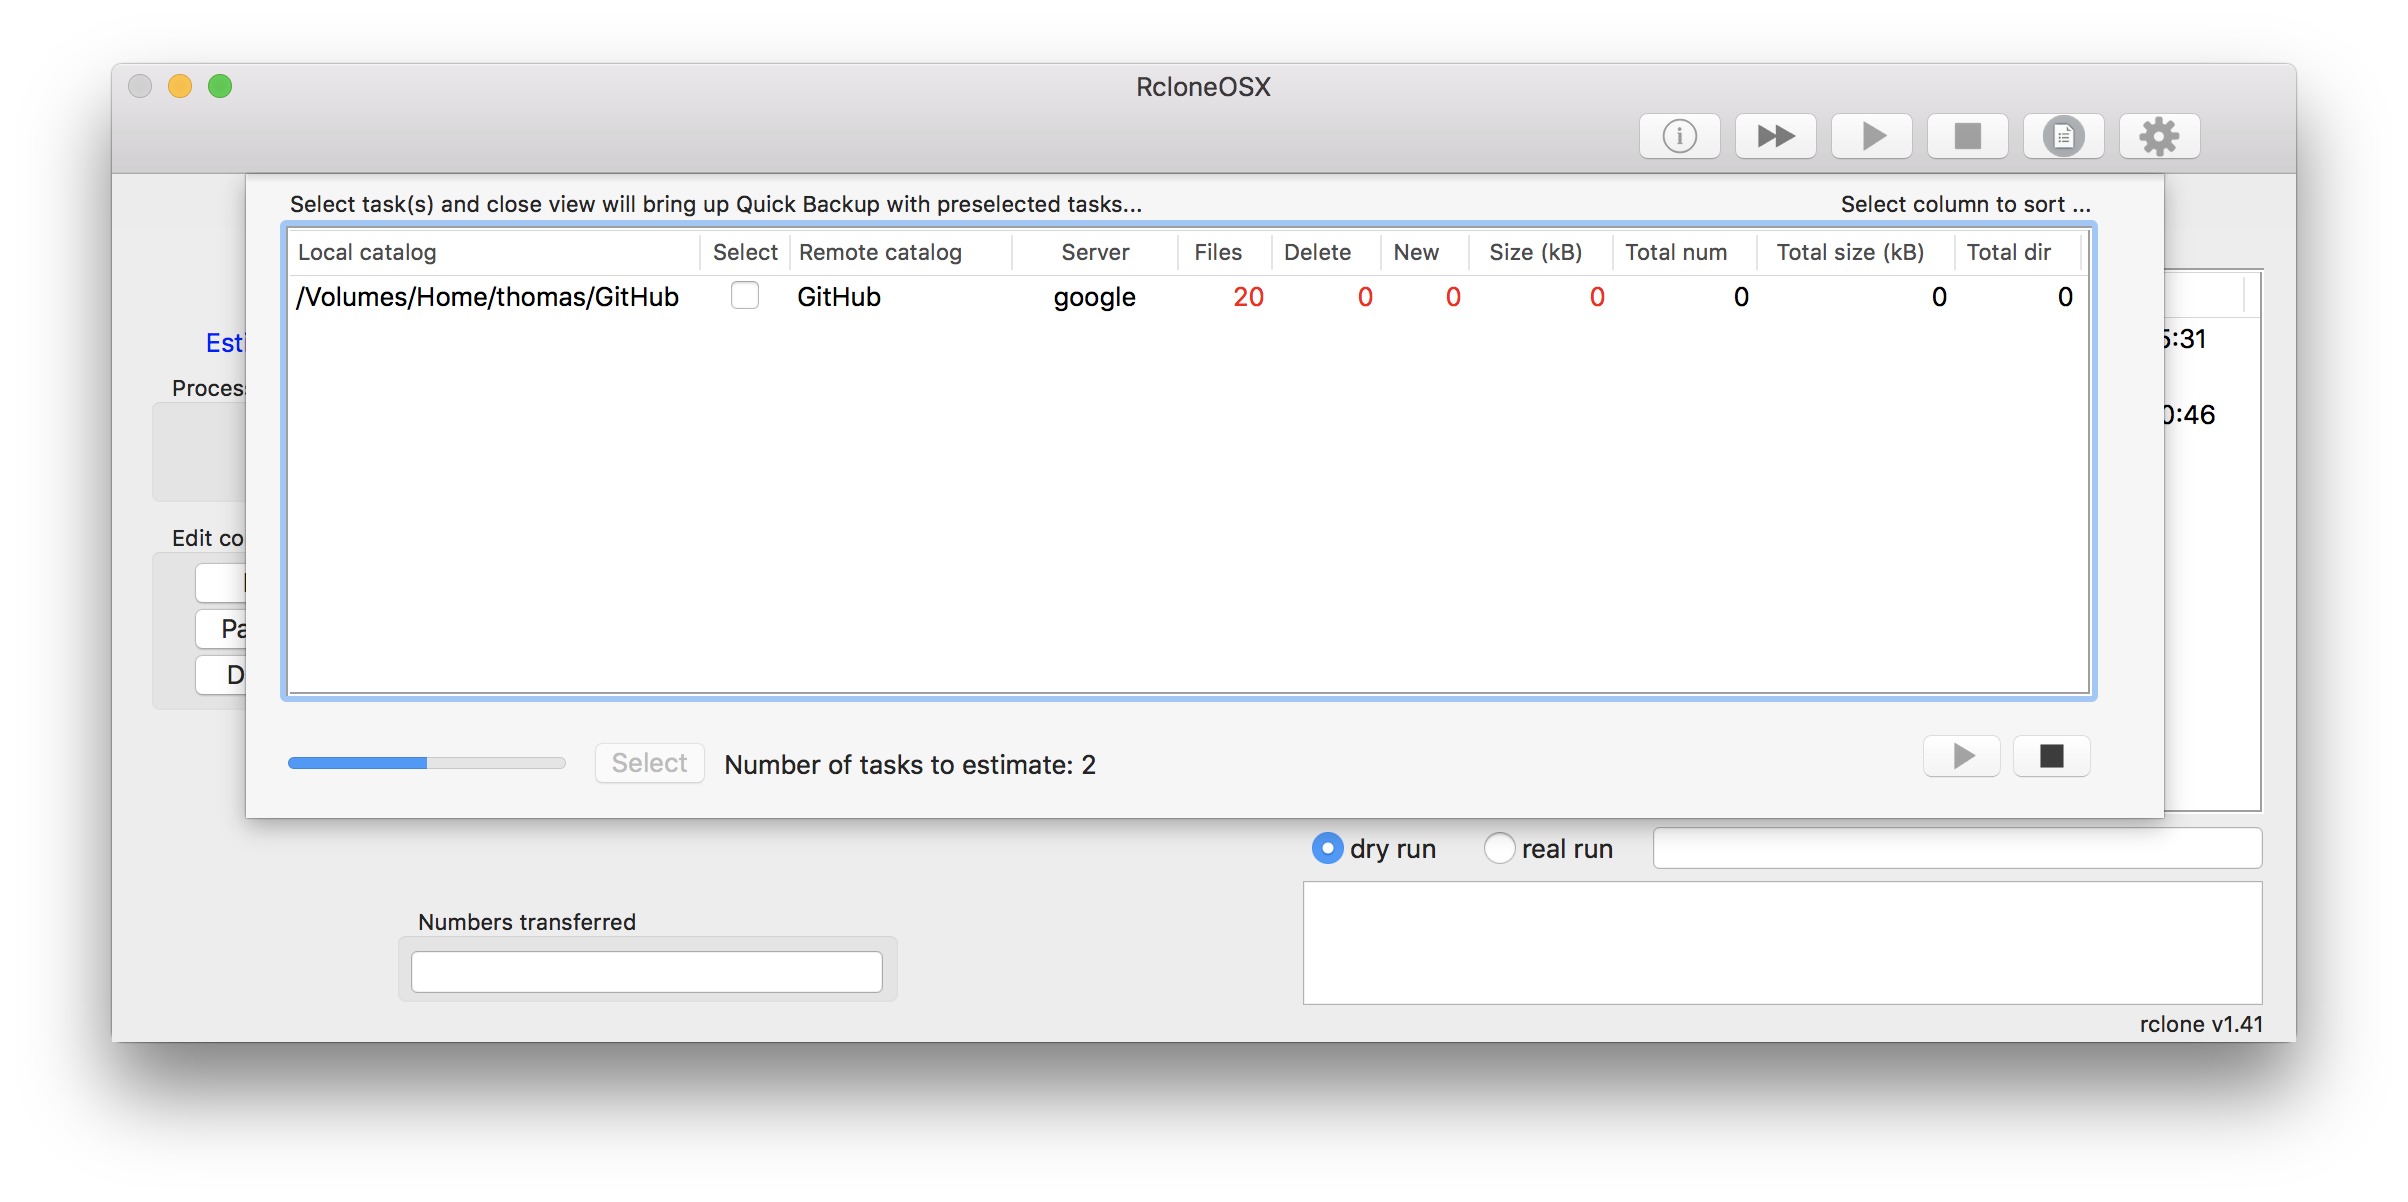
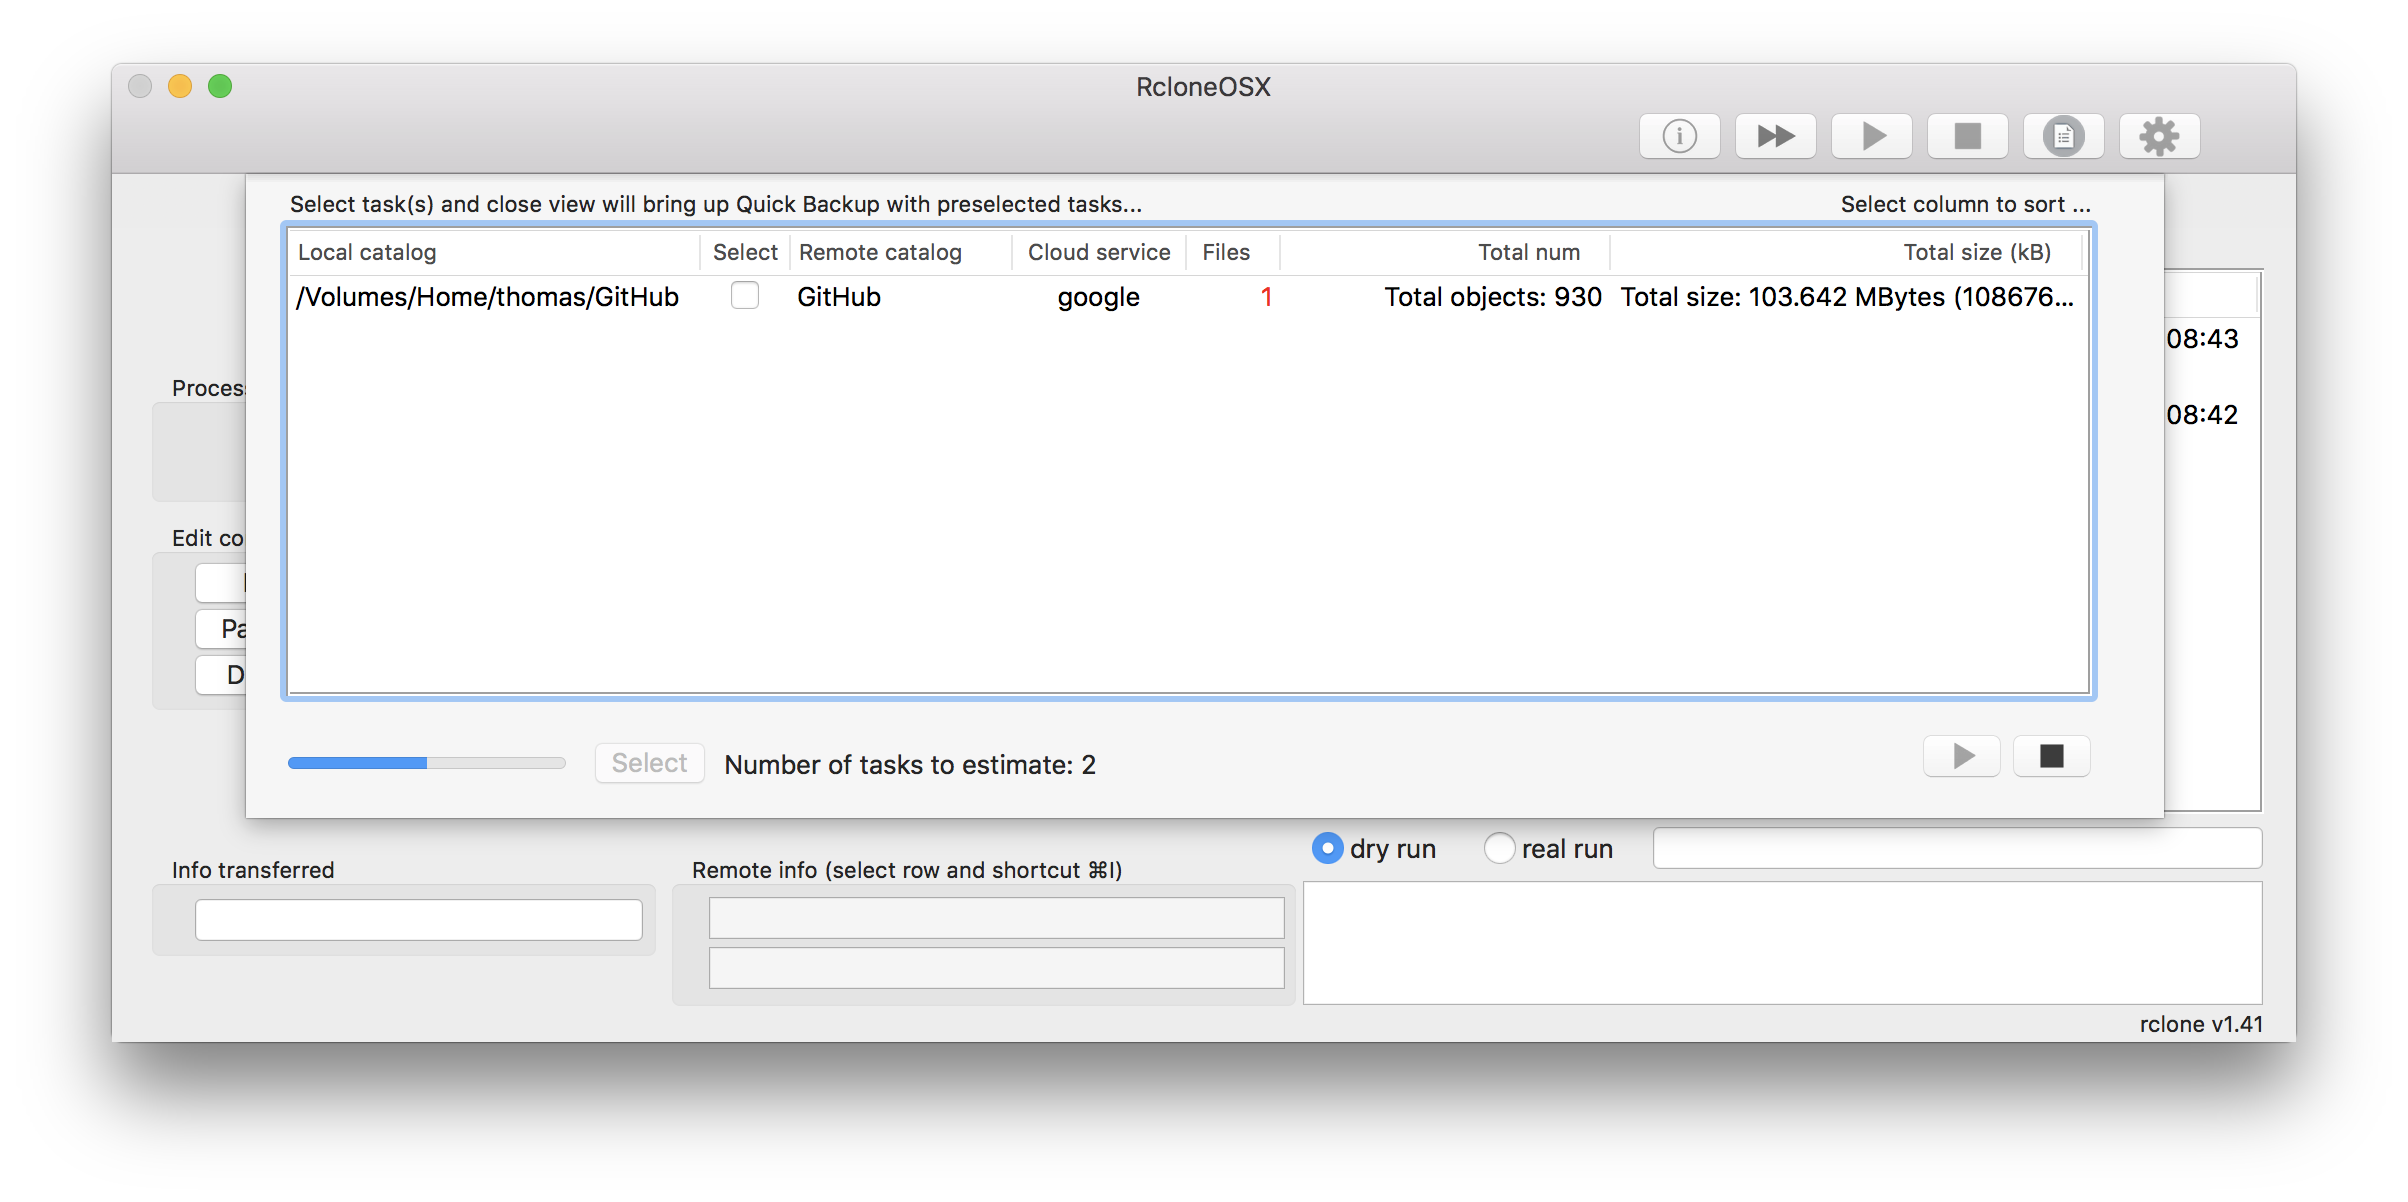
updates

diff --git a/_posts/2018-01-01-RcloneChangelog.md b/_posts/2018-01-01-RcloneChangelog.md
@@ -8,7 +8,7 @@ This is the Changelog for RcloneOSX. RcloneOSX is a "quick and dirty" port of Rs
 ## Version 1.5.0 release candidate
 
 There are several enhancements in this rc, see screenshots:
-- released 1 May 2018
+- updated 3 May 2018
 - `⌘I` gets remote info about tasks
 - `⌘B` commence an automatic backup for `sync` tasks with data to sync
 - selecting the i-button commence an estimating run for all `sync` tasks
@@ -17,6 +17,7 @@ There are several enhancements in this rc, see screenshots:
 Selecting the i-button up right commences an estimation run for `sync` tasks.
 ![Main view](/images/RcloneOSX/v1.5.0/nr1.png)
 ![Main view](/images/RcloneOSX/v1.5.0/nr2.png)
+![Main view](/images/RcloneOSX/v1.5.0/nr8.png)
 After estimation run is completed, selecting `Select` button selects tasks with files to sync. Pressing play button again automatically commences the `sync` tasks.
 ![Main view](/images/RcloneOSX/v1.5.0/nr3.png)
 `⌘B` - shortcut for executing automatic backups commences an automatic backup.
